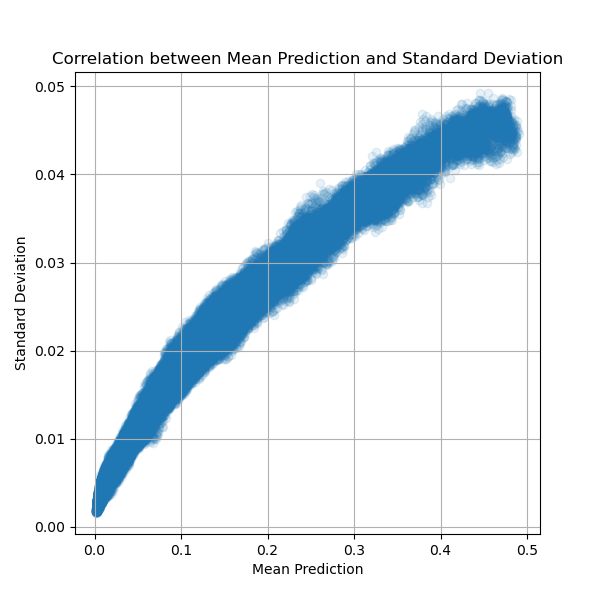
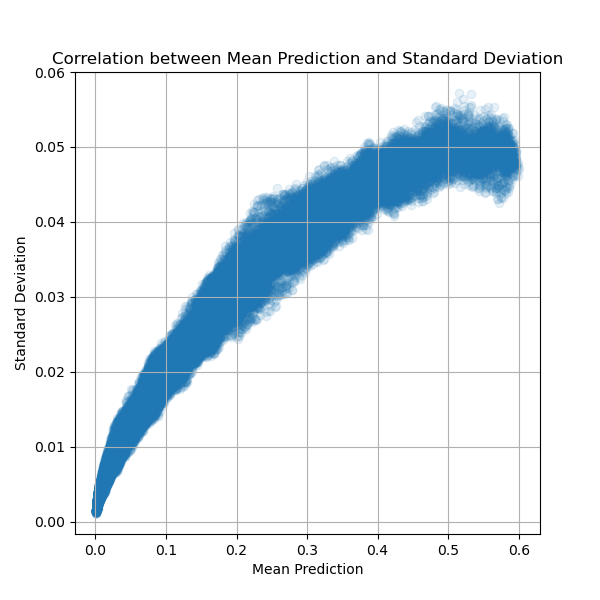
fixed scaling issue of masks

diff --git a/main.py b/main.py
@@ -1,12 +1,12 @@
 import numpy as np
 import tensorflow as tf
 import matplotlib.pyplot as plt
-from configs import PREPPED_TEST_IMAGES, PREPPED_TEST_MASKS, DROPOUT_RATE, NUM_SAMPLES_MC_DROPOUT_PREDICTION
+from configs import PREPPED_TEST_IMAGES, PREPPED_TEST_MASKS, DROPOUT_RATE, NUM_SAMPLES_MC_DROPOUT_PREDICTION, GRID_ITERATIONS
 from utils.directories_check import check_dirs, check_prepped_data
 from utils.custom_funcs import dice_loss, dice_coefficient, combined_loss
 from utils.logger_prep import get_logger
 
-from uncertainity_quantification.MC_dropout import mc_dropout_predictions, visualize_mean_std, visualize_confidence_intervals, plot_correlation_analysis, get_uncertainty_avgs, run_mc_dropout_on_all_images
+from uncertainity_quantification.MC_dropout import mc_dropout_predictions, visualize_mean_std, visualize_confidence_intervals, plot_correlation_analysis, get_uncertainty_avgs, run_mc_dropout_on_all_images, visualize_mean_std_grid
 
 if __name__ == '__main__':
 
@@ -30,20 +30,23 @@ if __name__ == '__main__':
     #######################################################################
     # Uncertainty quantification using MC dropout #
     #######################################################################
-
     # Perform MC dropout inference on a single test image
-    mc_predictions = mc_dropout_predictions(model, test_images[0], num_samples=NUM_SAMPLES_MC_DROPOUT_PREDICTION)
-    mean_prediction = np.mean(mc_predictions, axis=0)
-    std_deviation = np.std(mc_predictions, axis=0)
-    visualize_mean_std(test_images[0], test_masks[0], mean_prediction, std_deviation)
-    visualize_confidence_intervals(test_images[0], mean_prediction, std_deviation, confidence_level=0.95)
-    plot_correlation_analysis(mean_prediction, std_deviation)
-    get_uncertainty_avgs(mean_prediction, std_deviation)
+    # mc_predictions = mc_dropout_predictions(model, test_images[0], num_samples=NUM_SAMPLES_MC_DROPOUT_PREDICTION)
+    # mean_prediction = np.mean(mc_predictions, axis=0)
+    # std_deviation = np.std(mc_predictions, axis=0)
+    # visualize_mean_std(test_images[0], test_masks[0], mean_prediction, std_deviation)
+    # visualize_confidence_intervals(test_images[0], mean_prediction, std_deviation, confidence_level=0.95)
+    # plot_correlation_analysis(mean_prediction, std_deviation)
+    # get_uncertainty_avgs(mean_prediction, std_deviation)
 
     # Perform MC dropout inference on all test images
-    mean_of_means, mean_of_stds = run_mc_dropout_on_all_images(model, test_images, num_samples=NUM_SAMPLES_MC_DROPOUT_PREDICTION)
-    plot_correlation_analysis(mean_of_means, mean_of_stds)
-    get_uncertainty_avgs(mean_of_means, mean_of_stds)
+    # mean_of_means, mean_of_stds = run_mc_dropout_on_all_images(model, test_images, num_samples=NUM_SAMPLES_MC_DROPOUT_PREDICTION)
+    # plot_correlation_analysis(mean_of_means, mean_of_stds)
+    # get_uncertainty_avgs(mean_of_means, mean_of_stds)
+
+    # Visualize the mean and standard deviation for GRID_ITERATIONS number of test images
+    predictions = np.array([mc_dropout_predictions(model, test_image, num_samples=NUM_SAMPLES_MC_DROPOUT_PREDICTION) for test_image in test_images[:GRID_ITERATIONS]])
+    visualize_mean_std_grid(test_images[:GRID_ITERATIONS], test_masks[:GRID_ITERATIONS], predictions, rows=4, cols=GRID_ITERATIONS)
 
     #######################################################################
 

diff --git a/uncertainity_quantification/MC_dropout.py b/uncertainity_quantification/MC_dropout.py
@@ -2,6 +2,7 @@ import numpy as np
 from tqdm import tqdm
 import matplotlib.pyplot as plt
 from utils.logger_prep import get_logger
+from configs import X_DIMENSION, Y_DIMENSION
 
 logger = get_logger(__name__)
 
@@ -55,6 +56,7 @@ def mc_dropout_predictions(model, input_image, num_samples=50):
     input_image = np.expand_dims(input_image, axis=0)
     predictions = [model(input_image, training=True) for _ in tqdm(range(num_samples), desc='MC Dropout Inference for a single test image')]
     predictions = np.array(predictions)
+
     return predictions
 
 
@@ -88,6 +90,46 @@ def visualize_mean_std(test_image, test_mask, mean_prediction, std_deviation):
     
     plt.show()
 
+def visualize_mean_std_grid(test_images, test_masks, predictions, rows=4, cols=5):
+    """
+    Visualize the test images, masks, mean predictions, and uncertainty across multiple samples.
+    
+    Parameters:
+        test_images (numpy.array): Array of test images.
+        test_masks (numpy.array): Array of corresponding masks.
+        predictions (list): List of predictions arrays, each from a different MC sample.
+        num_samples (int): Number of MC samples to visualize.
+        rows (int): Number of rows in the grid.
+        cols (int): Number of columns in the grid.
+    """
+    fig, axes = plt.subplots(rows, cols, figsize=(3 * cols + 10, 3 * rows + 10))
+    
+    for i in range(cols):
+        for j in range(rows):
+            ax = axes[j, i]
+            mean_prediction = np.mean(predictions[i], axis=0)
+            std_deviation = np.std(predictions[i], axis=0)
+            
+            if j == 0:  # First row - Test Image
+                im = ax.imshow(test_images[i])
+                ax.set_title(f'Test Image[{i+1}]')
+            elif j == 1:  # Second row - Test Mask
+                im = ax.imshow(test_masks[i][:, :, 0], cmap='gray')
+                ax.set_title(f'Test Mask[{i+1}]')
+            elif j == 2:  # Third row - Mean Prediction
+                im = ax.imshow(mean_prediction[0, :, :, 0], cmap='gray')
+                ax.set_title(f'Mean Prediction[{i+1}]')
+            elif j == 3:  # Fourth row - Prediction Uncertainty
+                im = ax.imshow(std_deviation[0, :, :, 0], cmap='gray')
+                ax.set_title(f'Uncertainty[{i+1}]')
+            
+            ax.axis('off')
+            if i == cols - 1:
+                fig.colorbar(im, ax=ax)
+
+    plt.tight_layout(pad=3.0, h_pad=3.0)
+    plt.show()
+
 
 # Confidence Interval Visualizations
 def visualize_confidence_intervals(test_image, mean_prediction, std_deviation, confidence_level=0.95):
@@ -102,13 +144,13 @@ def visualize_confidence_intervals(test_image, mean_prediction, std_deviation, c
     # Display the lower bound of the confidence interval
     plt.figure(figsize=(10, 5))
     plt.subplot(1, 2, 1)
-    plt.imshow(lower_bound[0, :, :, 0], cmap='gray')
+    plt.imshow(lower_bound[0, :, :, 0], cmap='gray', vmin=0, vmax=1)
     plt.colorbar()
     plt.title(f'{confidence_level * 100}% Confidence Lower Bound')
     
     # Display the upper bound of the confidence interval
     plt.subplot(1, 2, 2)
-    plt.imshow(upper_bound[0, :, :, 0], cmap='gray')
+    plt.imshow(upper_bound[0, :, :, 0], cmap='gray', vmin=0, vmax=1)
     plt.colorbar()
     plt.title(f'{confidence_level * 100}% Confidence Upper Bound')
     

diff --git a/predict.py b/predict.py
@@ -30,12 +30,12 @@ if __name__ == '__main__':
     logger.info('Predicting test images')
     predictions = model.predict(test_images)
 
-    for i in range(10):
+    for i in range(1):
         visualize_test_sample(test_images[i], test_masks[i], predictions[i])
 
-    # Use F1 score to evaluate the model
+    # Evaluate the model
     logger.info('Evaluating model')
     loss, accuracy, dice_coefficient_metric = model.evaluate(test_images, test_masks)
-    logger.info(f'Loss: {loss}, Accuracy: {accuracy}, Dice Coefficient: {dice_coefficient_metric}')
+    logger.info(f'Loss: {round(loss, 3)}, Accuracy: {round(accuracy, 3)}, Dice Coefficient: {round(dice_coefficient_metric, 3)}')
     
     logger.info('Predictions complete')

diff --git a/utils/data_loader_unet.py b/utils/data_loader_unet.py
@@ -25,8 +25,8 @@ def load_and_process_files(image_dir, mask_dir, prefix='train'):
 
 
         # Convert to array and normalize
-        image = img_to_array(image) / 255.0
-        mask = img_to_array(mask) / 255.0
+        image = img_to_array(image, dtype=np.float32) / np.max(image)
+        mask = img_to_array(mask, dtype=np.float32) / np.max(mask)
 
         # Convert to tensors
         image = tf.convert_to_tensor(image, dtype=tf.float32)

diff --git a/configs.py b/configs.py
@@ -15,5 +15,6 @@ DROPOUT_RATE = 0.35
 X_DIMENSION = 256
 Y_DIMENSION = 256
 
-# Uncertainty quantification test example index
+# Uncertainty quantification testing
 NUM_SAMPLES_MC_DROPOUT_PREDICTION = 10
+GRID_ITERATIONS = 5
